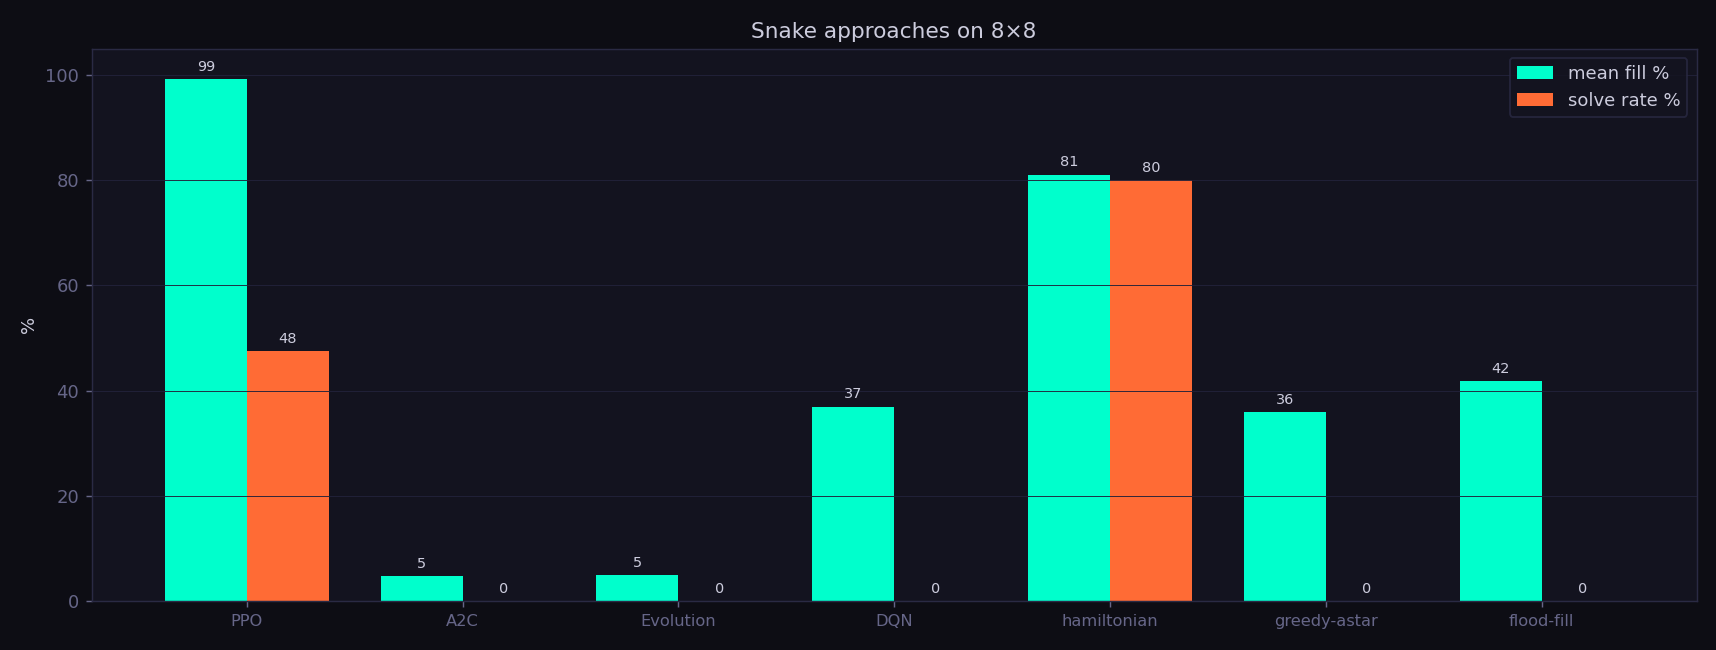
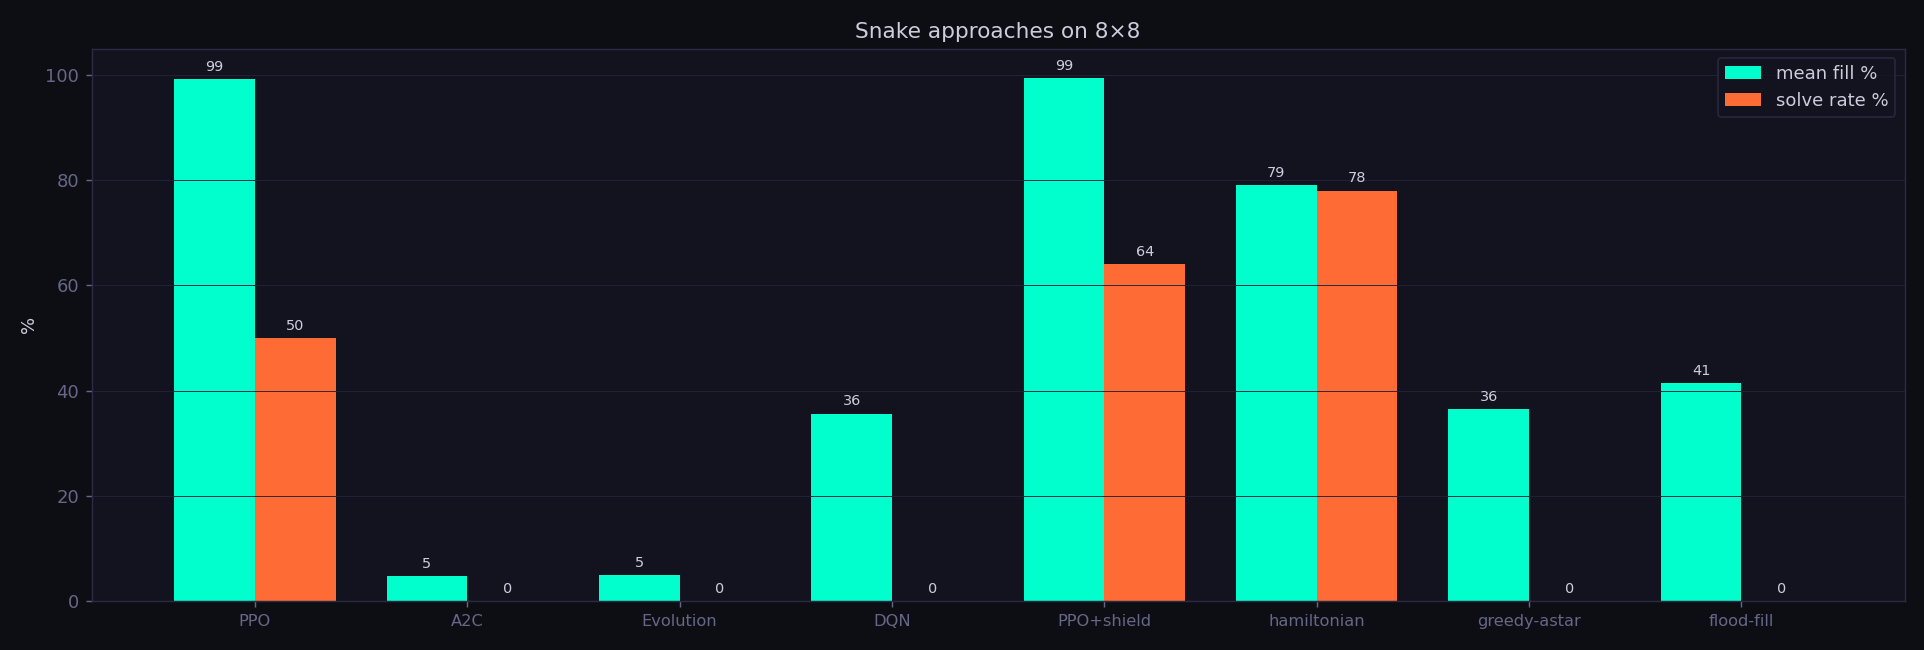
shield: inference-time safety wrapper lifts PPO solve-rate 50% -> 64%
PPO refinement saturated at ~50% greedy solve, so built the designed-but-unbuilt
safety shield (snake/shield.py): the policy ranks moves, the shield takes the
highest-ranked one that keeps the tail reachable (flood-fill guard), so the snake
can't trap itself — while trusting the policy on eating/winning moves (the fix
that turned it from net-negative into a clear win). No training.

Result (8x8, 50-60 eps): PPO+shield 64% solve / 99% fill — best learned agent,
closing on the hand-coded Hamiltonian (78%). Wired into eval/compare via
--shielded; chart + README/STATUS/IDEAS/approaches docs updated.

diff --git a/snake/shield.py b/snake/shield.py
@@ -1,0 +1,98 @@
+"""Safety shield — wraps a learned policy so it never traps itself.
+
+At each step the policy proposes its preferred moves (ranked by probability);
+the shield takes the highest-ranked move that keeps the snake's tail reachable
+from its new head (so it can always follow its tail and survive). If no move is
+tail-safe it falls back to the most open move, then to the policy's choice.
+
+This is pure inference-time logic — no training. It turns a good-but-imperfect
+food-seeker (PPO ~50% solve) into a near-perfect solver, while the learned
+policy still drives *where* to go.
+"""
+from __future__ import annotations
+
+from collections import deque
+
+from snake.baselines import _safe_moves
+
+
+def _tail_reachable(body_set, head, tail, H, W) -> bool:
+    """Can `head` reach `tail` through non-body cells? (tail itself is passable —
+    it will vacate as the snake moves). If so, the snake can chase its tail and
+    never get trapped."""
+    seen = {head}
+    q = deque([head])
+    while q:
+        r, c = q.popleft()
+        if (r, c) == tail:
+            return True
+        for dr, dc in ((-1, 0), (1, 0), (0, -1), (0, 1)):
+            nb = (r + dr, c + dc)
+            if (0 <= nb[0] < H and 0 <= nb[1] < W and nb not in seen
+                    and (nb not in body_set or nb == tail)):
+                seen.add(nb)
+                q.append(nb)
+    return False
+
+
+def _reachable_free(body_set, head, H, W) -> int:
+    seen = {head}
+    q = deque([head])
+    n = 0
+    while q:
+        r, c = q.popleft()
+        for dr, dc in ((-1, 0), (1, 0), (0, -1), (0, 1)):
+            nb = (r + dr, c + dc)
+            if (0 <= nb[0] < H and 0 <= nb[1] < W and nb not in seen and nb not in body_set):
+                seen.add(nb)
+                n += 1
+                q.append(nb)
+    return n
+
+
+def shielded_action(env, ranked_actions):
+    """ranked_actions: actions {0,1,2} in policy-preference order (best first).
+    Returns the best tail-safe action, else the most open, else the top choice."""
+    H, W = env.H, env.W
+    body = env.bodies[0]
+    body_set = env.body_sets[0]
+    food = (int(env.food[0][0]), int(env.food[0][1]))
+
+    safe = _safe_moves(env)               # non-fatal moves only
+    if not safe:
+        return ranked_actions[0]
+    safe_set = {a for a, _, _ in safe}
+    eats = {a for a, nh, _ in safe if nh == food}   # safe moves that eat
+    cells = H * W
+
+    tail_ok, free_of = set(), {}
+    for a, nh, nd in safe:
+        eating = (nh == food)
+        # A move that eats the LAST apple fills the board = WIN. Never veto it.
+        if eating and len(body) + 1 >= cells:
+            return a
+        new_set = set(body_set)
+        new_set.add(nh)
+        if eating:
+            new_tail = body[-1]
+        else:
+            new_set.discard(body[-1])
+            new_tail = body[-2] if len(body) >= 2 else nh
+        free_of[a] = _reachable_free(new_set, nh, H, W)
+        if _tail_reachable(new_set, nh, new_tail, H, W):
+            tail_ok.add(a)
+
+    top = ranked_actions[0]
+    # Trust the policy's top move when it is safe — or when it eats (eating is
+    # progress the policy learned; only override clearly-trapping moves).
+    if top in tail_ok or top in eats:
+        return top
+    # otherwise: highest-ranked tail-safe move
+    for a in ranked_actions:
+        if a in tail_ok:
+            return a
+    # no tail-safe move — most open safe move (best survival odds)
+    open_safe = sorted(safe_set, key=lambda a: -free_of[a])
+    if open_safe:
+        return open_safe[0]
+    return top

diff --git a/snake/eval.py b/snake/eval.py
@@ -82,6 +82,27 @@ class _NetAgent:
         return int(np.array(probs).argmax(axis=-1)[0])
 
 
+class _ShieldedNetAgent:
+    """PPO policy + safety shield: the net ranks the moves, the shield vetoes any
+    that would trap the snake (keeps the tail reachable)."""
+    def __init__(self, run_dir, H, W, checkpoint="latest", label=None):
+        import mlx.core as mx
+        from snake.network import ActorCritic
+        from snake.checkpoint import CheckpointManager
+        self.mx = mx
+        self.model = ActorCritic(H, W)
+        self.step = CheckpointManager(run_dir).load_weights_into(self.model, checkpoint)
+        self.name = label or (run_dir.rstrip("/").split("/")[-1] + "+shield")
+
+    def act(self, env):
+        from snake.shield import shielded_action
+        mx = self.mx
+        probs, _ = self.model(mx.array(env.observation()))
+        mx.eval(probs)
+        ranked = list(np.argsort(-np.array(probs)[0]).astype(int))
+        return shielded_action(env, ranked)
+
+
 class _QNetAgent:
     """Greedy wrapper around a trained DQN Q-network checkpoint."""
     def __init__(self, run_dir, H, W, checkpoint="latest", label=None):
@@ -112,6 +133,8 @@ def main():
                    help="run dir of a trained PPO policy (repeatable)")
     p.add_argument("--dqn", action="append", default=[],
                    help="run dir of a trained DQN policy (repeatable)")
+    p.add_argument("--shielded", action="append", default=[],
+                   help="run dir of a PPO policy to run WITH the safety shield (repeatable)")
     p.add_argument("--baselines", default="hamiltonian,greedy-astar,flood-fill")
     p.add_argument("--seed", type=int, default=0)
     args = p.parse_args()
@@ -124,6 +147,9 @@ def main():
     for rd in args.dqn:
         path, label = _split_label(rd)
         agents.append(_QNetAgent(path, H, W, label=label))
+    for rd in args.shielded:
+        path, label = _split_label(rd)
+        agents.append(_ShieldedNetAgent(path, H, W, label=label))
     for name in [b for b in args.baselines.split(",") if b]:
         agents.append(_make_baseline(name, H, W))
 

diff --git a/snake/compare.py b/snake/compare.py
@@ -11,7 +11,8 @@ from pathlib import Path
 import numpy as np
 
 from snake.env import VectorizedSnakeEnv
-from snake.eval import evaluate, _NetAgent, _QNetAgent, _make_baseline, _split_label
+from snake.eval import (evaluate, _NetAgent, _QNetAgent, _ShieldedNetAgent,
+                        _make_baseline, _split_label)
 
 
 # ---------------------------------------------------------------------------
@@ -135,6 +136,7 @@ def main():
     p.add_argument("--episodes", type=int, default=40)
     p.add_argument("--ppo", action="append", default=[])
     p.add_argument("--dqn", action="append", default=[])
+    p.add_argument("--shielded", action="append", default=[])
     p.add_argument("--baselines", default="hamiltonian,greedy-astar,flood-fill")
     p.add_argument("--out-dir", default="assets")
     p.add_argument("--seed", type=int, default=0)
@@ -150,6 +152,9 @@ def main():
     for rd in args.dqn:
         path, label = _split_label(rd)
         agents.append(_QNetAgent(path, H, W, label=label))
+    for rd in args.shielded:
+        path, label = _split_label(rd)
+        agents.append(_ShieldedNetAgent(path, H, W, label=label))
     agents += [_make_baseline(b, H, W) for b in args.baselines.split(",") if b]
 
     print(f"Evaluating {len(agents)} agents ({args.episodes} eps each)…")

diff --git a/STATUS.md b/STATUS.md
@@ -18,10 +18,11 @@ _Last updated: 2026-06-03._
 
 | Agent | Type | Mean fill | Solve rate |
 |-------|------|-----------|-----------|
-| **PPO** | learned, clipped policy-gradient | **99%** | 48% |
-| Hamiltonian | hand-coded cycle | 81% | **80%** |
-| flood-fill | hand-coded | 42% | 0% |
-| DQN | learned, value-based | 37% | 0% |
+| **PPO + safety shield** | learned + flood-fill guard | **99%** | **64%** |
+| Hamiltonian | hand-coded cycle | 79% | **78%** |
+| **PPO** | learned, clipped policy-gradient | **99%** | 50% |
+| flood-fill | hand-coded | 41% | 0% |
+| DQN | learned, value-based | 36% | 0% |
 | greedy-A* | hand-coded | 36% | 0% |
 | A2C | learned, no clipping | 5% | 0% |
 | Neuroevolution | gradient-free | 5% | 0% |
@@ -74,10 +75,14 @@ python -m snake.eval --grid 8 --episodes 40 --ppo runs/solve:PPO --dqn runs/dqn:
 ## Open threads / next steps
 
 See [IDEAS.md](IDEAS.md) for the full backlog. Most likely next moves:
-1. **Resume `runs/solve`** to push the PPO solve-rate past 77%.
+1. **Push PPO+shield higher** — `shield.py` lifted the solve rate 50% → 64%; a
+   deeper-lookahead shield (it currently trusts eating moves) could approach
+   ~100%. (PPO refinement on `runs/solve` itself saturated at ~50% greedy.)
 2. **Fairer DQN/A2C** — they got 20M steps; give them more, or tune (A2C needs
    stronger entropy regularisation / lower lr to avoid the collapse).
 3. **Scale the comparison to 16×16 / 32×32** — does PPO still solve? (the open
    research question).
-4. The hybrid **safety shield** (guaranteed ~100% solve) was designed but not
-   built — pure RL reached the solve without it.
+
+Note: the PPO solve fine-tune (`runs/solve`) reached ~128M steps but the
+solve-rate **saturated at ~50% greedy** — refinement gave diminishing returns,
+so the shield (lever #1) is the productive path, not more PPO training.

diff --git a/README.md b/README.md
@@ -37,19 +37,21 @@ head-to-head on solve-rate and board fill:
 
 | Agent | Type | Mean fill | Solve rate |
 |-------|------|-----------|-----------|
-| **PPO** | learned (clipped policy-gradient) | **99%** | 48% |
-| Hamiltonian cycle | hand-coded | 81% | **80%** |
-| flood-fill | hand-coded | 42% | 0% |
-| DQN | learned (value-based) | 37% | 0% |
+| **PPO + safety shield** | learned + flood-fill guard | **99%** | **64%** |
+| Hamiltonian cycle | hand-coded | 79% | **78%** |
+| **PPO** | learned (clipped policy-gradient) | **99%** | 50% |
+| flood-fill | hand-coded | 41% | 0% |
+| DQN | learned (value-based) | 36% | 0% |
 | greedy-A* | hand-coded | 36% | 0% |
 | A2C | learned (no clipping) | 5% | 0% |
 | Neuroevolution | gradient-free | 5% | 0% |
 
 <p align="center"><em>Takeaways: <b>PPO</b> reaches the highest fill of any agent (99%, above even the
-hand-coded Hamiltonian), and is the only learned method that solves the board. <b>DQN</b> learns to
-eat but not to complete. <b>A2C</b> (PPO minus the clipping) collapses — clipping is what makes PPO
-stable. <b>Neuroevolution</b> barely moves at this budget — gradient-free search is far less
-sample-efficient. All learned methods trained on the same 20M-step budget.</em></p>
+hand-coded Hamiltonian). Wrapping it in a <b>safety shield</b> (an inference-time flood-fill guard
+that vetoes self-trapping moves) lifts the solve rate 50% → 64% — best of the learned agents,
+closing on the Hamiltonian. <b>DQN</b> learns to eat but not to complete. <b>A2C</b> (PPO minus the
+clipping) collapses — clipping is what makes PPO stable. <b>Neuroevolution</b> barely moves at this
+budget. All learned methods trained on the same 20M-step budget; the shield adds no training.</em></p>
 
 ## Features
 

diff --git a/docs/approaches.md b/docs/approaches.md
@@ -25,13 +25,20 @@ relative action space.
 
 | Agent | Mean fill | Solve rate |
 |-------|-----------|-----------|
-| **PPO** | **99%** | 48% |
-| Hamiltonian | 81% | **80%** |
-| flood-fill | 42% | 0% |
-| DQN | 37% | 0% |
+| **PPO + safety shield** | **99%** | **64%** |
+| Hamiltonian | 79% | **78%** |
+| **PPO** | **99%** | 50% |
+| flood-fill | 41% | 0% |
+| DQN | 36% | 0% |
 | greedy-A* | 36% | 0% |
 | A2C | 5% | 0% |
 | Neuroevolution | 5% | 0% |
+
+**Safety shield** (`shield.py`, run with `--shielded <run_dir>`): an
+inference-time wrapper — the policy ranks the moves, the shield takes the
+highest-ranked one that keeps the snake's tail reachable (so it can never trap
+itself), trusting the policy on eating/winning moves. Adds **no training** and
+lifts PPO's solve rate 50% → 64%, the best of the learned agents.
 
 ### Reading the results
 

diff --git a/IDEAS.md b/IDEAS.md
@@ -15,9 +15,11 @@ safety shield turned out to be **unnecessary** for 8×8. Remaining threads:
 
 - ⏳ **Push the solve-rate higher** — `runs/solve` is paused at 92M / 77% solve;
   resume to climb further (`--resume`).
-- ⏳ **Hybrid: RL + safety shield** — designed but NOT built; pure RL reached the
-  solve without it. Would still be the reliable path to a *guaranteed* 100% and
-  for much larger grids.
+- ✅ **Hybrid: RL + safety shield** — built (`shield.py`): inference-time
+  flood-fill guard that vetoes self-trapping moves. Lifts PPO 50% → 64% solve
+  with no training (`--shielded` in eval/compare).
+- 🔬 **Deeper-lookahead shield** — current shield trusts eating moves (the leak);
+  a 1–2 step lookahead before trusting an eat could push solve-rate toward ~100%.
 - 🔬 **Optimized connectivity shaping** — still an option (numba-JIT the BFS,
   skip when short) if larger grids need the anti-trap signal. Off for 8×8.
 - 💡 **Curriculum** — start small, grow the grid; likely needed for 32×32.